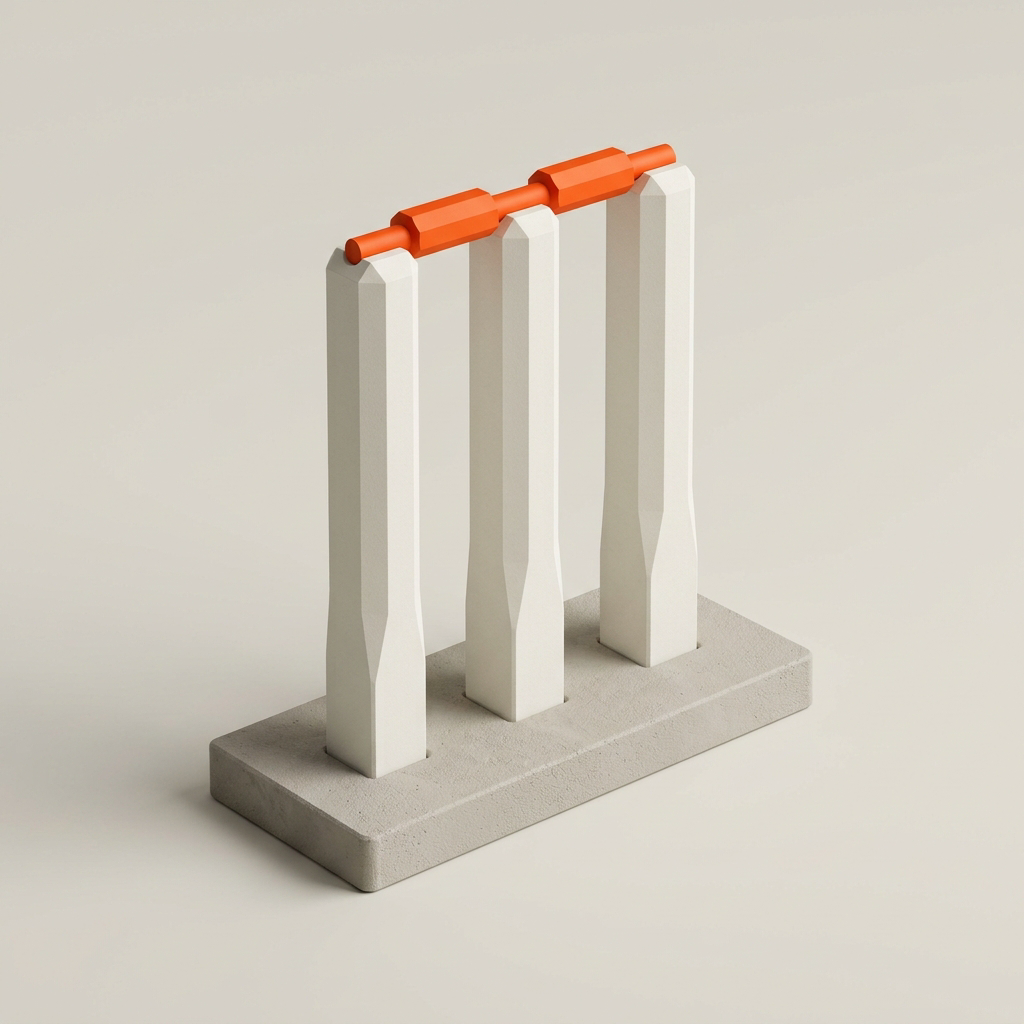
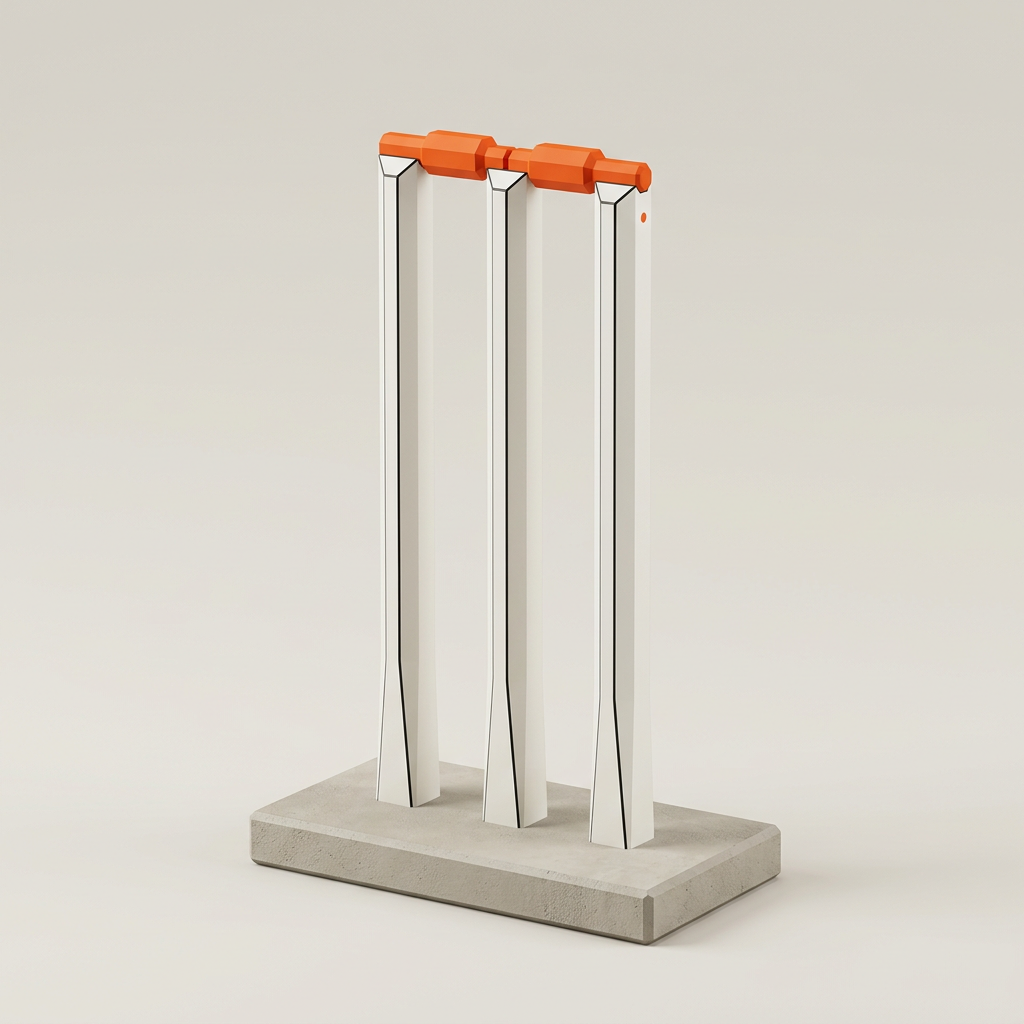
Concepts: floodlight, TecPro, pit wall, stumps second pass per owner

Changed region(s): [[0.0, 0.125, 0.8125, 0.9375]]

diff --git a/docs/BRAND.md b/docs/BRAND.md
@@ -8,7 +8,7 @@ disagree, the page is what the owner approved; fix this file.
 
 | Date | Decision |
 |---|---|
-| 2026-11-05 | Meshy concept images approved as the design for every world model ("I loved every single concept model, colors, shape, everything"): contact monuments C01–C07 (Email lies horizontal), driver, trophy, Mercury, trees, bushes, grasses, rocks, town blocks, landmark tower, pit building, the four sector buildings (Ahmedabad kept), grandstand, gantry, marshal post, street furniture, boat, pier, goal, podium. Changes asked: floodlight bigger and wider (head wider than the mast), TecPro orange blocks instead of white, pit wall with four seats (one per vehicle), cricket three stumps with orange bails. Concepts: public/models/concepts, list in components/world/meshy/catalog.ts. Garage: options 01 Cockpit and 03 Pit wall screens chosen, to be combined into one; 02 and 04 dropped. |
+| 2026-11-05 | Meshy concept images approved as the design for every world model ("I loved every single concept model, colors, shape, everything"): contact monuments C01–C07 (Email lies horizontal), driver, trophy, Mercury, trees, bushes, grasses, rocks, town blocks, landmark tower, pit building, the four sector buildings (Ahmedabad kept), grandstand, gantry, marshal post, street furniture, boat, pier, goal, podium. Changes asked (second pass): floodlight tall in proportion with a big wide head on top; TecPro black and white with exactly one orange block; pit wall = four separate booths (one per vehicle) facing the track over the wall; cricket three tall slender stumps with orange bails. Concepts: public/models/concepts, list in components/world/meshy/catalog.ts. Garage: options 01 Cockpit and 03 Pit wall screens chosen, to be combined into one; 02 and 04 dropped. |
 | 2026-10-26 | Garage studio and the vehicle in Settings (owner): the garage is a plain studio, the proposal's turntable light (white sky fill over a concrete bounce, a paper-white key from a fixed side) under a paper sky and paper fog, the turntable turning slowly on the dot floor; no sun arc, time of day or weather. The world's own light, time and weather ease in from Enter through the bloom's first seconds (bloom/state.ts `studio`). Settings has a Vehicle section in the garage's own pieces (the four cards with their icons, the livery swatches, the stat bars, components/ui/garageParts.tsx): a card swaps the vehicle in place where the car stands, and "Open the garage" (G, or the Garage tab in the HUD) runs the full garage flow. It replaces the old Settings livery picker. |
 | 2026-10-26 | Garage select is a compact box (owner: "too big ... the normal small size and the box in the background"): at most 1100 x 640, centred, 2 px ink border and the 4 px sticker shadow, the dotted floor and the turntable's surroundings visible all round it; the turntable is framed in the box's left cell. The drive prompt under the spec column is exactly that column's width and shares its left border. Below 768 px wide the box fills the screen inside a 12 px margin and stacks (cell, spec row, cards two by two, a full-width Drive button on touch). On Enter the chrome slides off and the align and bloom run full screen. The boot's background is the same perspective dot floor from the garage camera (bloom/view.ts `drawFloor`), so boot to garage is one picture. |
 | 2026-10-26 | Boot, garage and Bloom are one space (owner): the boot's background is the bloom's dotted paper floor (paper #ebe9e3, a #b9b6ab square in each cell), the garage turntable stands on that same floor in the real world at the car's start spot, and on Enter the align morphs it into the bloom's first frame (the floor rises to just under the vehicle, the plinth sinks as the world blooms). The old boot still image is gone. In the game: G reopens the garage, Esc there goes back to driving. |
